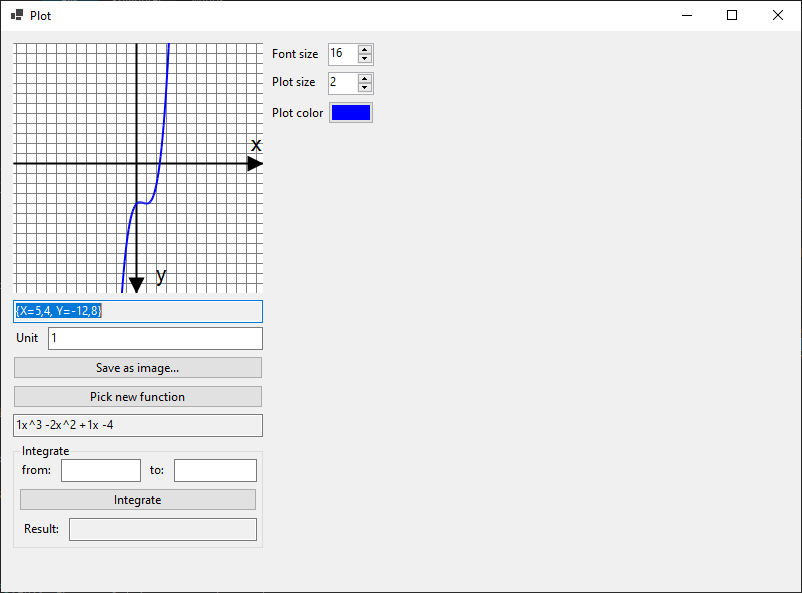
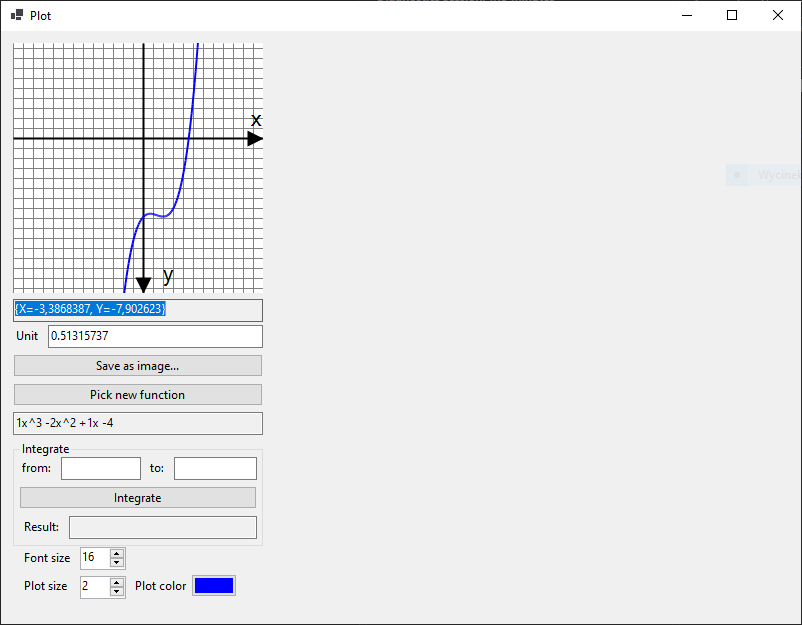
Updated README.md and images

diff --git a/README.md b/README.md
@@ -22,5 +22,9 @@ Below it, user can find `Pick a function` button which shows a new Form where a 
 Currently there are only logarithmic and polynomial functions.
 User can see the function's formula directly under this button.
 
-On the right side, there are settings for fontsize, plot width and plot color.
-The last option available is calculating the integral for a given range on the bottom of the form.
+There are also settings for fontsize, plot width and plot color.
+The last option available is calculating the integral for a given range at the bottom of the form's options section.
+
+Plot can be double-clicked which causes it to take whole form space and options section moves to the right.
+
+![Plot made larger](images/plot-made-larger.png)
